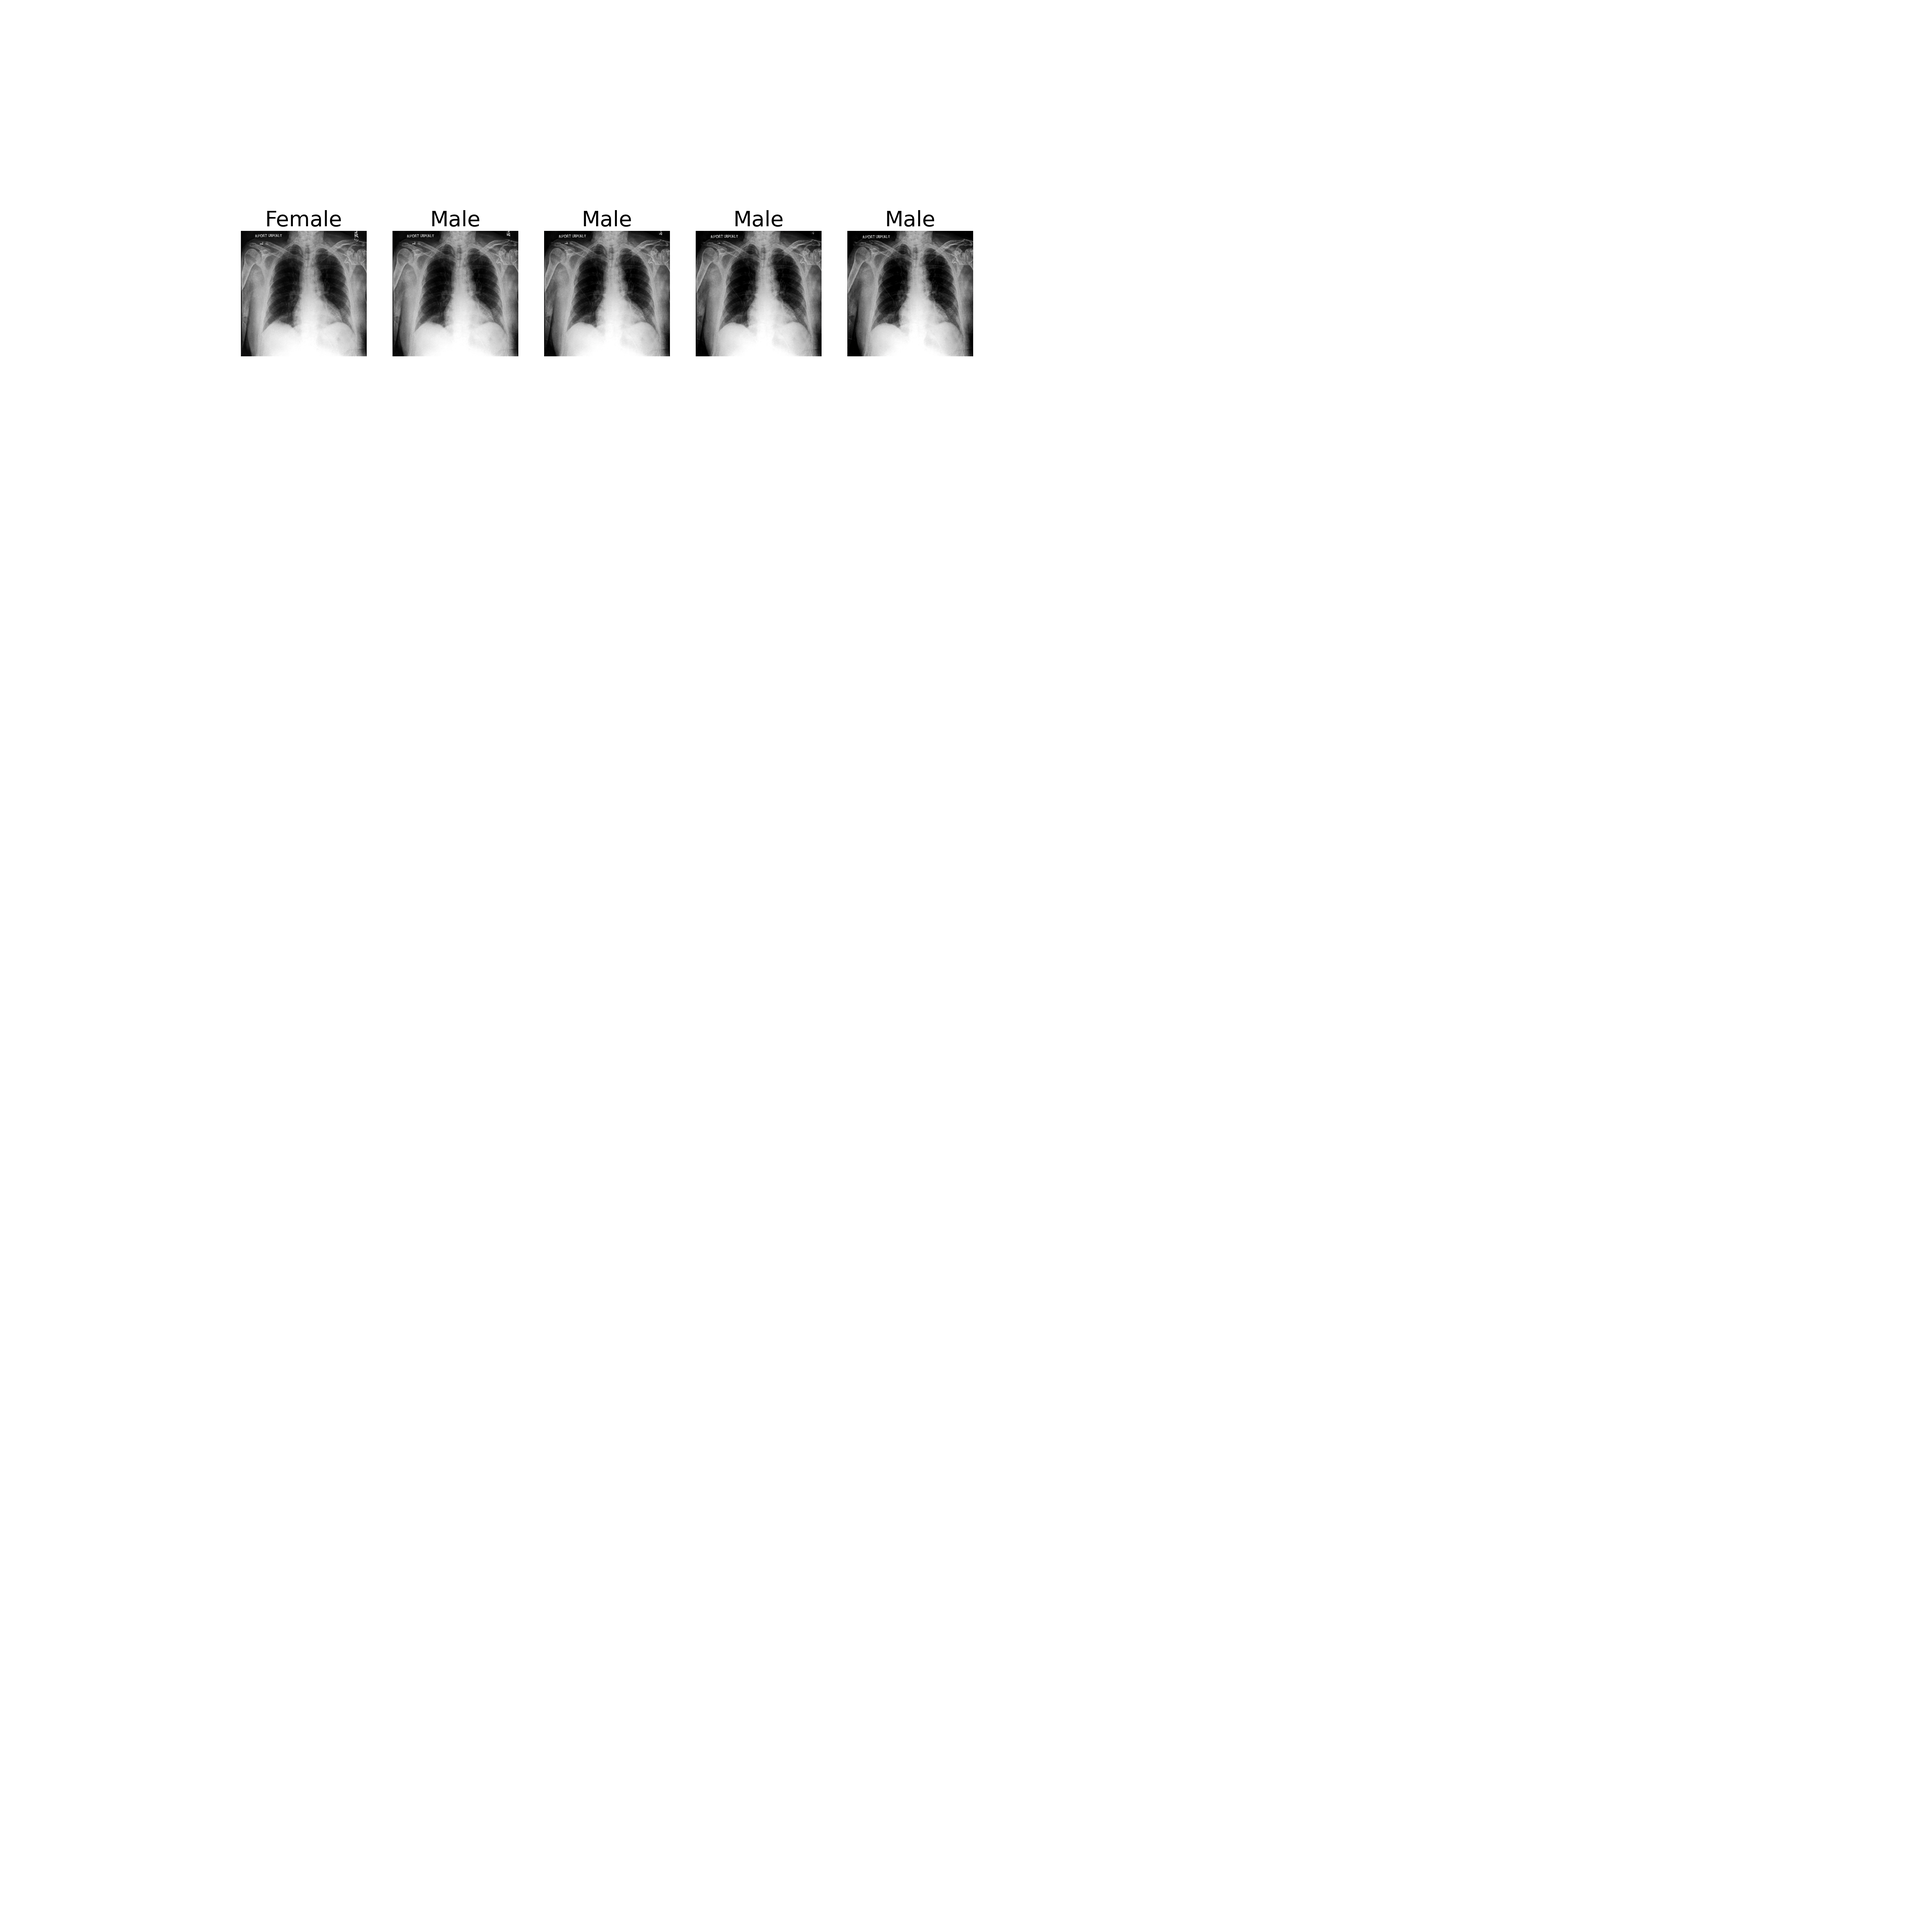
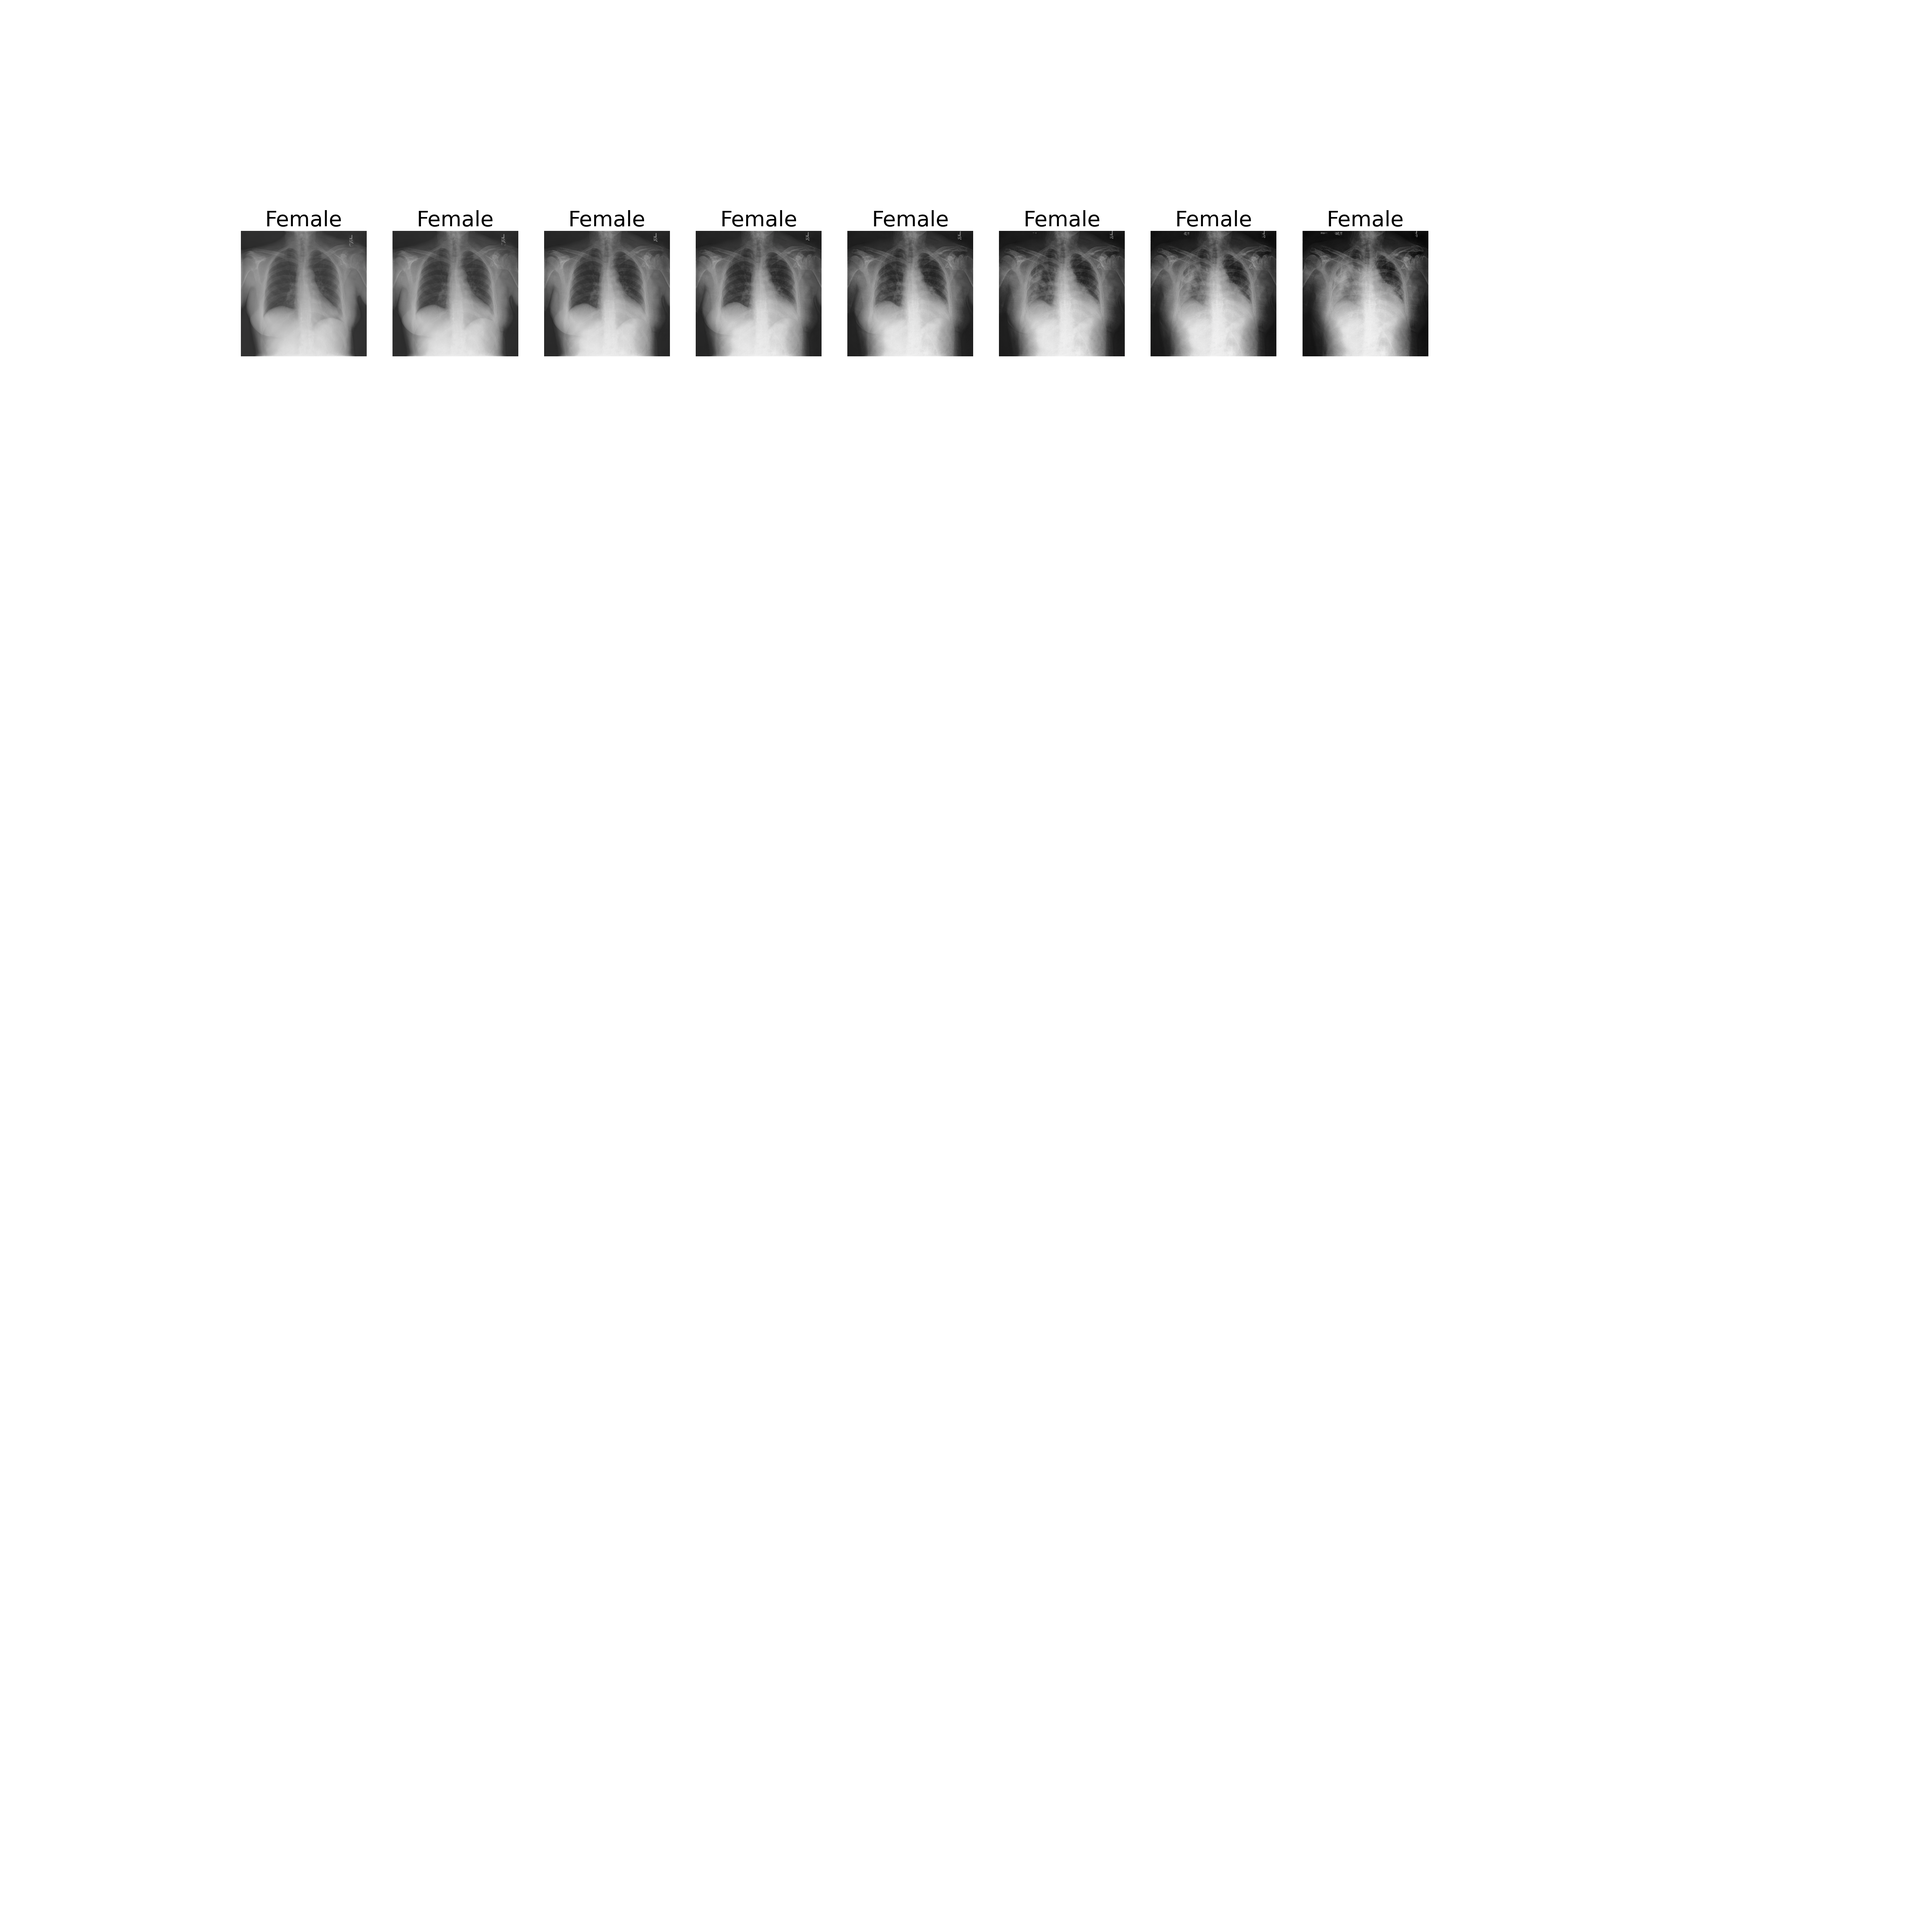
editing interpolation script.py

Changed region(s): [[0.1248, 0.0936, 0.7488, 0.1872]]

diff --git a/scripts/.ipynb_checkpoints/interpolate-checkpoint.py b/scripts/.ipynb_checkpoints/interpolate-checkpoint.py
@@ -177,7 +177,7 @@ PATH2LATENTS = '../../synthetic_images/latents/'
 embeddings = [os.path.join(PATH2LATENTS, x) for x in os.listdir(PATH2LATENTS)]
 embeddings = list(filter(os.path.isfile, embeddings))
 
-latent_w = np.load(embeddings[0])['100']
+latent_w = np.load(embeddings[10])['100']
 img = generate_image_from_style(torch.from_numpy(latent_w).to('cuda'))
 
 fig, rows, columns = plt.figure(figsize=(50, 50)), 10,10
@@ -185,7 +185,7 @@ subject = 807
 
 old_w = latent_w; v = clf.named_steps['linearsvc'].coef_[0].reshape((styles[0].shape))
 alpha = 0
-for idx in range(5):
+for idx in range(8):
     new_w = old_w + alpha * v
     img = generate_image_from_style(torch.from_numpy(new_w).to('cuda'))
     fig.add_subplot(rows, columns, idx+1); plt.imshow(img,cmap='gray'); plt.axis('off')
@@ -200,7 +200,7 @@ plt.savefig('Figure1.png')
 
 old_w = latent_w ;
 fig, rows, columns = plt.figure(figsize=(50, 50)), 10,10
-alpha = 0
+alpha = -20
 for idx in range(5):
     new_w = old_w + alpha * v
     img = generate_image_from_style(torch.from_numpy(new_w).to('cuda'))
@@ -210,7 +210,7 @@ for idx in range(5):
         plt.title('No Findings', fontsize="40")
     else:
         plt.title('Pneumonia', fontsize="40")
-    alpha += 5
+    alpha += 10
     
 plt.savefig('Figure2.png')
 

diff --git a/scripts/interpolate.py b/scripts/interpolate.py
@@ -177,7 +177,7 @@ PATH2LATENTS = '../../synthetic_images/latents/'
 embeddings = [os.path.join(PATH2LATENTS, x) for x in os.listdir(PATH2LATENTS)]
 embeddings = list(filter(os.path.isfile, embeddings))
 
-latent_w = np.load(embeddings[0])['100']
+latent_w = np.load(embeddings[10])['100']
 img = generate_image_from_style(torch.from_numpy(latent_w).to('cuda'))
 
 fig, rows, columns = plt.figure(figsize=(50, 50)), 10,10
@@ -185,7 +185,7 @@ subject = 807
 
 old_w = latent_w; v = clf.named_steps['linearsvc'].coef_[0].reshape((styles[0].shape))
 alpha = 0
-for idx in range(5):
+for idx in range(8):
     new_w = old_w + alpha * v
     img = generate_image_from_style(torch.from_numpy(new_w).to('cuda'))
     fig.add_subplot(rows, columns, idx+1); plt.imshow(img,cmap='gray'); plt.axis('off')
@@ -200,7 +200,7 @@ plt.savefig('Figure1.png')
 
 old_w = latent_w ;
 fig, rows, columns = plt.figure(figsize=(50, 50)), 10,10
-alpha = 0
+alpha = -20
 for idx in range(5):
     new_w = old_w + alpha * v
     img = generate_image_from_style(torch.from_numpy(new_w).to('cuda'))
@@ -210,7 +210,7 @@ for idx in range(5):
         plt.title('No Findings', fontsize="40")
     else:
         plt.title('Pneumonia', fontsize="40")
-    alpha += 5
+    alpha += 10
     
 plt.savefig('Figure2.png')
 

diff --git a/scripts/.ipynb_checkpoints/encode_images-checkpoint.py b/scripts/.ipynb_checkpoints/encode_images-checkpoint.py
@@ -308,10 +308,10 @@ def run_optimization(img, idx, mode, init, normalization = False):
       loss_mse.append(mse_loss.item())
       loss_perceptual.append(perceptual_loss.item())
 
-#       # every SAVE_STEP, I store the current latent
-#       if (i +1) % SAVE_STEP == 0:
+      # every SAVE_STEP, I store the current latent
+      if (i +1) % SAVE_STEP == 0:
 #           print('iter[%d]:\t loss: %.4f\t mse_loss: %.4f\tpercep_loss: %.4f' % (i+1,  loss.item(), mse_loss.item(), perceptual_loss.item()))
-#           latent_list[str(i+1)] = embedding_latent.detach().cpu().numpy()
+          latent_list[str(i+1)] = embedding_latent.detach().cpu().numpy()
 
   # store all the embeddings create during optimization in .npz
   path_embedding_latent = os.path.join(SAVING_DIR, 

diff --git a/scripts/encode_images.py b/scripts/encode_images.py
@@ -308,10 +308,10 @@ def run_optimization(img, idx, mode, init, normalization = False):
       loss_mse.append(mse_loss.item())
       loss_perceptual.append(perceptual_loss.item())
 
-#       # every SAVE_STEP, I store the current latent
-#       if (i +1) % SAVE_STEP == 0:
+      # every SAVE_STEP, I store the current latent
+      if (i +1) % SAVE_STEP == 0:
 #           print('iter[%d]:\t loss: %.4f\t mse_loss: %.4f\tpercep_loss: %.4f' % (i+1,  loss.item(), mse_loss.item(), perceptual_loss.item()))
-#           latent_list[str(i+1)] = embedding_latent.detach().cpu().numpy()
+          latent_list[str(i+1)] = embedding_latent.detach().cpu().numpy()
 
   # store all the embeddings create during optimization in .npz
   path_embedding_latent = os.path.join(SAVING_DIR, 
